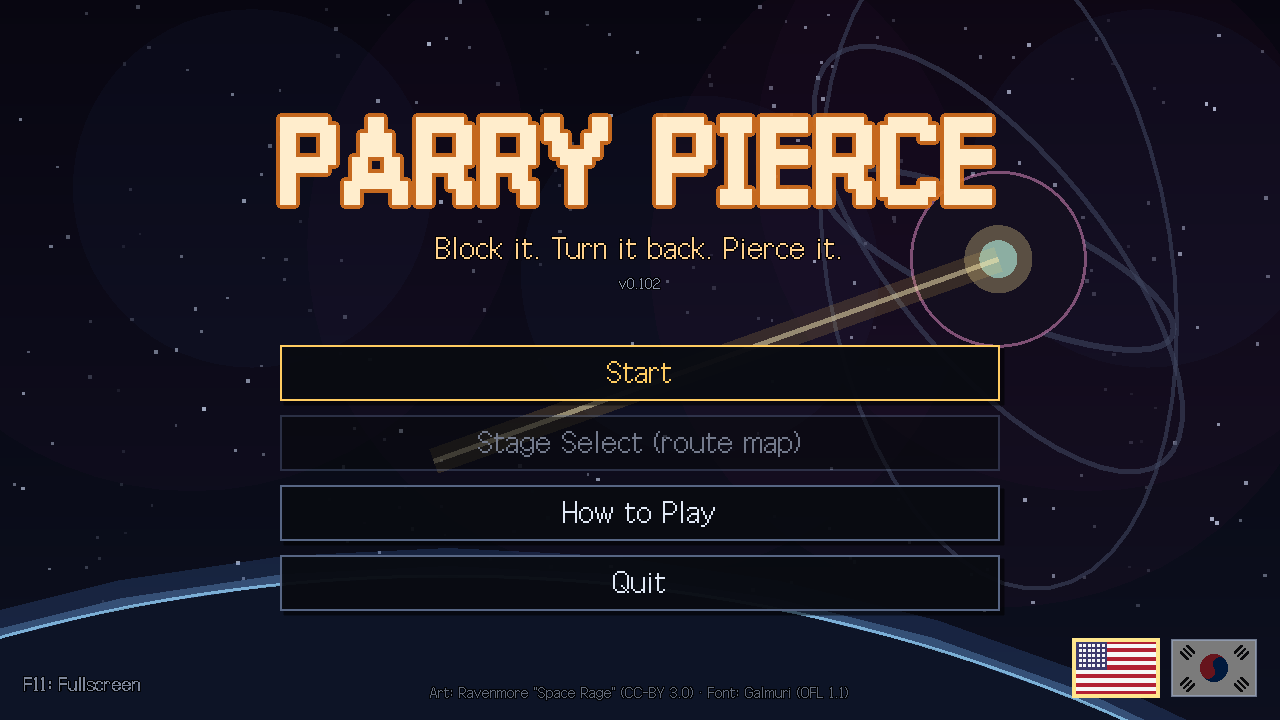
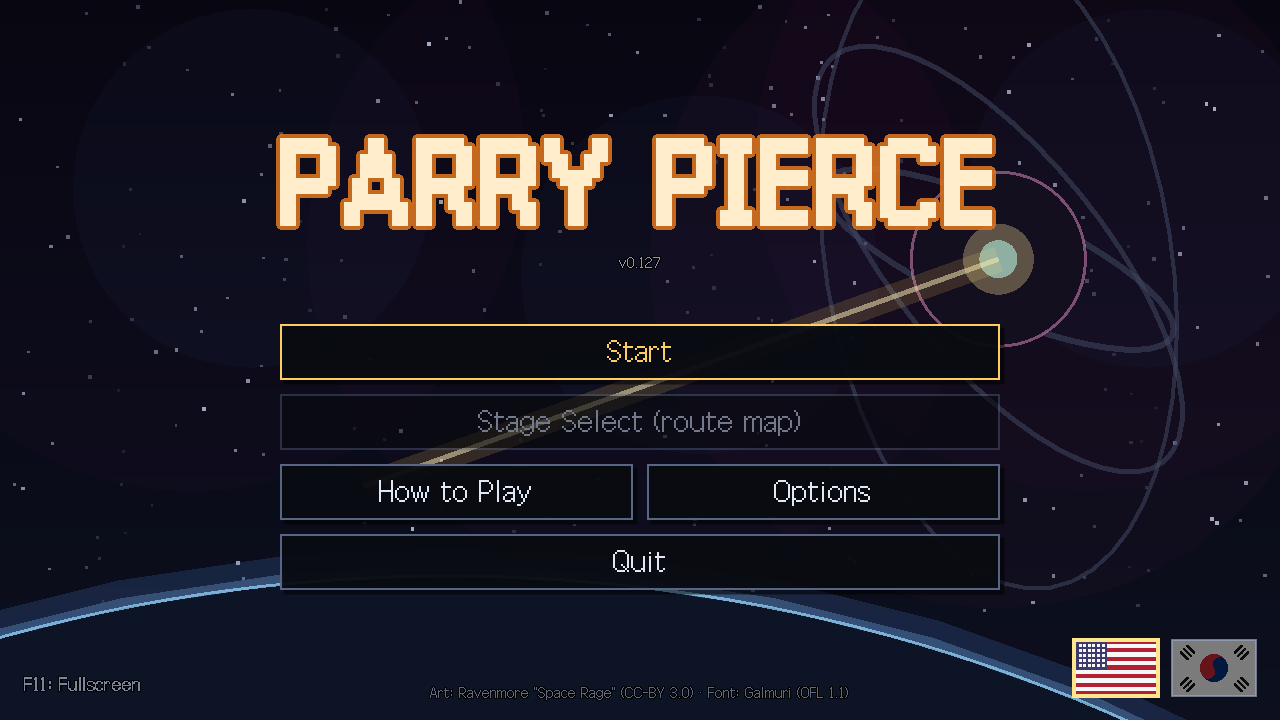
v0.127: title tagline removed; itch package, title screenshot and devlog updated to v0.127

diff --git a/itch/DEVLOG_v0.127.md b/itch/DEVLOG_v0.127.md
@@ -1,4 +1,4 @@
-# Devlog — v0.126 (v0.102 이후 변경점)
+# Devlog — v0.127 (v0.102 이후 변경점)
 
 > 붙여 넣는 법: itch 대시보드 → *Edit game* → **Devlog** → *Create new post*. 제목과 본문을 붙여 넣고,
 > 본문 중간의 `[이미지: ...]` 자리에 `screenshots/` 의 해당 PNG 를 *Insert image* 로 넣는다 (그 줄은 지운다).
@@ -9,7 +9,7 @@
 
 ## English
 
-**Title:** v0.126 — Stage 5: the Carrier, a volume menu, and one rule for every melee attack
+**Title:** v0.127 — Stage 5: the Carrier, a volume menu, and one rule for every melee attack
 
 A new colossus joins the route: a carrier that never comes close itself and sends its squadrons after you instead. This update also adds a proper Options menu with volume sliders, and makes every boss follow the same rules for melee warnings and unparryable attacks.
 
@@ -55,13 +55,16 @@ Some bosses showed the melee warning while the attack couldn't be intercepted ye
 - The whole mix was rebalanced. Sound effects were much louder than the music, so loud effects are now quieter and the music is louder. The game also starts at a lower default volume.
 - Fixed the browser version having no sound after the volume update.
 
+### Title screen
+- The tagline under the logo is gone. The title screen is just the logo now.
+
 Thanks for playing! The Carrier is the first boss built around a swarm instead of one big body. Tell me how the squadrons feel.
 
 ---
 
 ## 한국어
 
-**제목:** v0.126 — 5스테이지 모함, 음량 메뉴, 그리고 모든 근접공격에 같은 규칙
+**제목:** v0.127 — 5스테이지 모함, 음량 메뉴, 그리고 모든 근접공격에 같은 규칙
 
 항로에 새 콜로서스가 더해졌습니다. 직접 다가오지 않고 편대를 띄워 보내는 항공모함입니다. 음량을 조절하는 옵션 메뉴가 생겼고, 근접공격 경고와 패리 불가 공격이 모든 보스에서 같은 규칙으로 움직이게 정리했습니다.
 
@@ -106,5 +109,8 @@ Thanks for playing! The Carrier is the first boss built around a swarm instead o
 - 새 **옵션** 메뉴(메인 화면·Esc 메뉴)에서 **전체 음량, 음악, 효과음**을 따로 조절할 수 있고, 설정은 저장됩니다.
 - 전체 믹스를 다시 맞췄습니다. 효과음이 음악보다 너무 컸기 때문에 큰 효과음은 줄이고 음악은 키웠습니다. 처음 시작하는 기본 음량도 낮췄습니다.
 - 음량 업데이트 뒤 브라우저판에서 소리가 안 나던 문제를 고쳤습니다.
+
+### 메인 화면
+- 로고 아래 부제를 뺐습니다. 이제 로고만 남았습니다.
 
 플레이해 주셔서 고맙습니다! 모함은 거대한 몸 하나가 아니라 무리와 싸우는 첫 보스입니다. 편대전이 어땠는지 알려 주세요.
